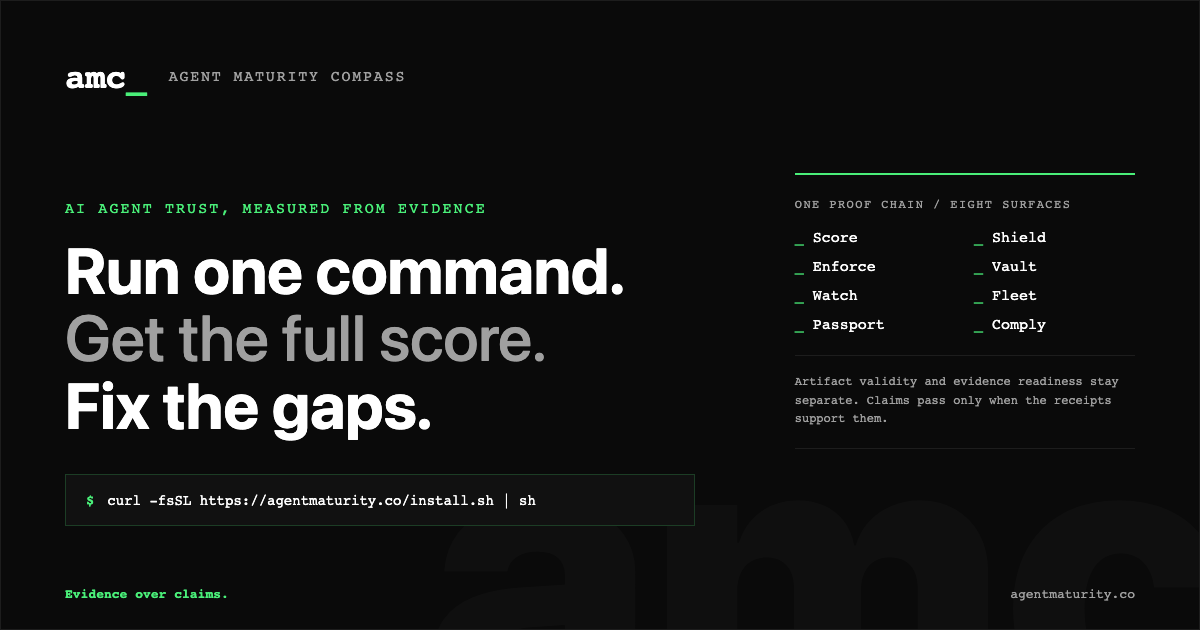
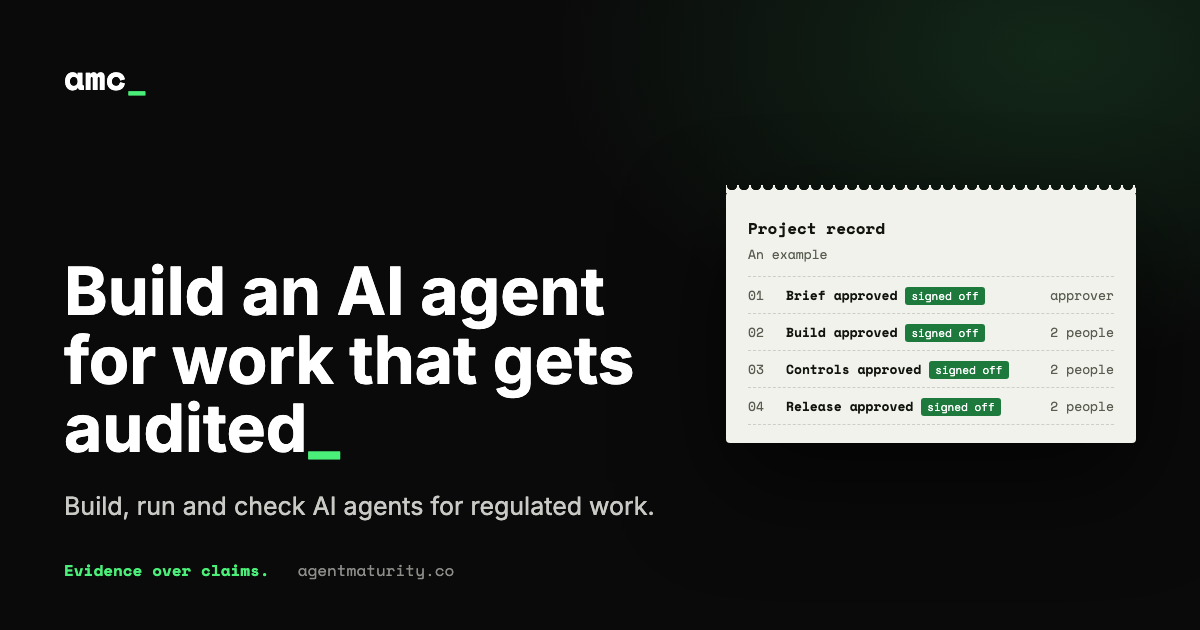
feat(brand): social card in the home design with the new promise
The card now says 'Build an AI agent for work that gets audited', the one-line description and
'Evidence over claims.', next to an example project record. Fonts load from the installed
@fontsource packages so npm run brand:render gives the same picture on every machine. The test
that pinned the retired promise on the card now pins the new one.

diff --git a/scripts/brand/og-card.html b/scripts/brand/og-card.html
@@ -3,165 +3,60 @@
 <head>
   <meta charset="UTF-8">
   <meta name="viewport" content="width=1200, initial-scale=1.0">
-  <meta name="description" content="Run one command. Get the full score. Fix the gaps. Evidence over claims.">
+  <meta name="description" content="Build an AI agent for work that gets audited. Build, run and check AI agents for regulated work. Evidence over claims.">
   <title>Agent Maturity Compass</title>
+  <!-- The social card (website/og-card.png, 1200x630), in the home page's design. Render it with `npm run brand:render`.
+       Fonts come from the installed @fontsource packages, so the picture is the same on every machine. -->
   <style>
-    * { box-sizing: border-box; }
-    html, body { width: 1200px; height: 630px; margin: 0; overflow: hidden; }
+    @font-face { font-family: "Inter"; src: url("../../node_modules/@fontsource/inter/files/inter-latin-400-normal.woff2") format("woff2"); font-weight: 400; }
+    @font-face { font-family: "Inter"; src: url("../../node_modules/@fontsource/inter/files/inter-latin-700-normal.woff2") format("woff2"); font-weight: 700; }
+    @font-face { font-family: "Space Mono"; src: url("../../node_modules/@fontsource/space-mono/files/space-mono-latin-400-normal.woff2") format("woff2"); font-weight: 400; }
+    @font-face { font-family: "Space Mono"; src: url("../../node_modules/@fontsource/space-mono/files/space-mono-latin-700-normal.woff2") format("woff2"); font-weight: 700; }
+    * { box-sizing: border-box; margin: 0; padding: 0; }
+    html, body { width: 1200px; height: 630px; overflow: hidden; }
     body {
-      background: #0a0a0a;
-      color: #FFFFFF;
-      font-family: 'Inter', system-ui, sans-serif;
+      background: #0a0a0a radial-gradient(60% 70% at 88% 8%, rgba(74, 239, 121, 0.13), transparent 70%);
+      color: #c9cac5;
+      font-family: "Inter", system-ui, sans-serif;
     }
-    .frame {
-      position: relative;
-      width: 100%;
-      height: 100%;
-      padding: 56px 64px 52px;
-      border: 1px solid rgba(255, 255, 255, 0.08);
-      overflow: hidden;
-    }
-    .watermark {
-      position: absolute;
-      right: -28px;
-      bottom: -132px;
-      color: rgba(255, 255, 255, 0.025);
-      font-size: 390px;
-      font-weight: 900;
-      line-height: 1;
-      letter-spacing: 0;
-    }
-    .topbar {
-      position: relative;
-      z-index: 1;
-      display: flex;
-      align-items: center;
-      gap: 22px;
-      font-family: 'Space Mono', ui-monospace, monospace;
-    }
-    .wordmark { font-size: 34px; font-weight: 700; }
-    .cursor { color: #4AEF79; }
-    .product-name {
-      color: #a0a0a0;
-      font-size: 15px;
-      text-transform: uppercase;
-      letter-spacing: 0.12em;
-    }
-    .content {
-      position: relative;
-      z-index: 1;
-      display: grid;
-      grid-template-columns: minmax(0, 1.45fr) minmax(330px, 0.75fr);
-      gap: 72px;
-      align-items: end;
-      height: 430px;
-    }
-    .eyebrow {
-      margin: 0 0 20px;
-      color: #4AEF79;
-      font-family: 'Space Mono', ui-monospace, monospace;
-      font-size: 15px;
-      text-transform: uppercase;
-      letter-spacing: 0.14em;
-    }
-    h1 {
-      margin: 0;
-      max-width: 650px;
-      font-size: 64px;
-      line-height: 1.06;
-      letter-spacing: 0;
-    }
-    h1 span { color: #a0a0a0; font-weight: 500; }
-    .command {
-      display: flex;
-      gap: 13px;
-      margin-top: 34px;
-      padding: 17px 20px;
-      max-width: 630px;
-      border: 1px solid rgba(74, 239, 121, 0.20);
-      background: #111111;
-      color: #FFFFFF;
-      font-family: 'Space Mono', ui-monospace, monospace;
-      font-size: 14px;
-      white-space: nowrap;
-    }
-    .command span { color: #4AEF79; font-weight: 700; }
-    .proof-panel {
-      align-self: center;
-      border-top: 2px solid #4AEF79;
-      border-bottom: 1px solid rgba(255, 255, 255, 0.08);
-      padding: 22px 0 20px;
-      font-family: 'Space Mono', ui-monospace, monospace;
-    }
-    .proof-label {
-      margin-bottom: 18px;
-      color: #a0a0a0;
-      font-size: 12px;
-      text-transform: uppercase;
-      letter-spacing: 0.12em;
-    }
-    .surface-grid {
-      display: grid;
-      grid-template-columns: 1fr 1fr;
-      gap: 12px 18px;
-      color: #FFFFFF;
-      font-size: 15px;
-    }
-    .surface-grid span::before { content: '_ '; color: #4AEF79; }
-    .proof-note {
-      margin-top: 22px;
-      padding-top: 16px;
-      border-top: 1px solid rgba(255, 255, 255, 0.08);
-      color: #a0a0a0;
-      font-size: 12px;
-      line-height: 1.55;
-    }
-    .footer {
-      position: absolute;
-      left: 64px;
-      right: 64px;
-      bottom: 28px;
-      z-index: 1;
-      display: flex;
-      justify-content: space-between;
-      color: #a0a0a0;
-      font-family: 'Space Mono', ui-monospace, monospace;
-      font-size: 13px;
-    }
-    .footer strong { color: #4AEF79; font-weight: 700; }
+    .frame { position: relative; height: 100%; padding: 52px 64px 48px; display: grid; grid-template-columns: minmax(0, 1fr) 410px; gap: 48px; }
+    .mono { font-family: "Space Mono", ui-monospace, monospace; }
+    .wordmark { font-size: 34px; font-weight: 700; color: #fff; }
+    .accent { color: #4AEF79; }
+    .copy { display: flex; flex-direction: column; }
+    h1 { margin-top: auto; font-size: 66px; line-height: 1.04; font-weight: 700; color: #fff; letter-spacing: 0; }
+    .line { margin-top: 26px; font-size: 25px; line-height: 1.4; max-width: 30em; }
+    .foot { margin-top: 34px; display: flex; gap: 28px; font-size: 16px; color: #8d8e89; }
+    .foot strong { color: #4AEF79; font-weight: 700; }
+    .sheet { align-self: center; position: relative; background: #f1f2ec; color: #12140e; border-radius: 4px; padding: 24px 22px 18px; box-shadow: 0 40px 100px rgba(0, 0, 0, 0.6); }
+    .sheet::before { content: ""; position: absolute; left: 0; right: 0; top: -7px; height: 8px; background: radial-gradient(circle at 6px 0, transparent 5px, #f1f2ec 5.5px) 0 0 / 12px 8px repeat-x; }
+    .sheet-title { font-weight: 700; font-size: 16px; }
+    .sheet-note { margin: 4px 0 12px; font-size: 13px; color: #595d50; }
+    ol { list-style: none; counter-reset: entry; border-top: 1px dashed rgba(18, 20, 14, 0.16); }
+    li { counter-increment: entry; display: grid; grid-template-columns: 30px minmax(0, 1fr) auto; gap: 8px; align-items: baseline; padding: 8px 0; border-bottom: 1px dashed rgba(18, 20, 14, 0.16); font-size: 13px; }
+    li::before { content: counter(entry, decimal-leading-zero); color: #595d50; }
+    li em { font-style: normal; color: #595d50; }
+    li b::after { content: "signed off"; margin-left: 8px; padding: 1px 6px; border-radius: 3px; background: #1d7a3c; color: #fff; font-weight: 400; font-size: 11px; white-space: nowrap; }
   </style>
 </head>
 <body>
   <div class="frame">
-    <div class="watermark" aria-hidden="true">amc</div>
-    <header class="topbar">
-      <div class="wordmark">amc<span class="cursor">_</span></div>
-      <div class="product-name">Agent Maturity Compass</div>
-    </header>
-
-    <main class="content">
-      <section>
-        <p class="eyebrow">AI agent trust, measured from evidence</p>
-        <h1>Run one command.<br><span>Get the full score.</span><br>Fix the gaps.</h1>
-        <div class="command"><span>$</span> curl -fsSL https://agentmaturity.co/install.sh | sh</div>
-      </section>
-
-      <aside class="proof-panel" aria-label="AMC trust stack">
-        <div class="proof-label">One proof chain / eight surfaces</div>
-        <div class="surface-grid">
-          <span>Score</span><span>Shield</span>
-          <span>Enforce</span><span>Vault</span>
-          <span>Watch</span><span>Fleet</span>
-          <span>Passport</span><span>Comply</span>
-        </div>
-        <div class="proof-note">Artifact validity and evidence readiness stay separate. Claims pass only when the receipts support them.</div>
-      </aside>
-    </main>
-
-    <footer class="footer">
-      <strong>Evidence over claims.</strong>
-      <span>agentmaturity.co</span>
-    </footer>
+    <section class="copy">
+      <div class="wordmark mono">amc<span class="accent">_</span></div>
+      <h1>Build an AI agent for work that gets audited<span class="accent">_</span></h1>
+      <p class="line">Build, run and check AI agents for regulated work.</p>
+      <p class="foot mono"><strong>Evidence over claims.</strong><span>agentmaturity.co</span></p>
+    </section>
+    <aside class="sheet mono" aria-label="An example project record">
+      <p class="sheet-title">Project record</p>
+      <p class="sheet-note">An example</p>
+      <ol>
+        <li><span><b>Brief approved</b></span><em>approver</em></li>
+        <li><span><b>Build approved</b></span><em>2 people</em></li>
+        <li><span><b>Controls approved</b></span><em>2 people</em></li>
+        <li><span><b>Release approved</b></span><em>2 people</em></li>
+      </ol>
+    </aside>
   </div>
 </body>
 </html>

diff --git a/tests/publicBrandSystem.test.ts b/tests/publicBrandSystem.test.ts
@@ -112,8 +112,9 @@ describe("AMC public brand system", () => {
     expect(existsSync(resolve(process.cwd(), "scripts/render-brand-assets.mjs"))).toBe(true);
     const source = read("scripts/brand/og-card.html");
     expect(source).toContain("Agent Maturity Compass");
-    expect(source).toContain("Run one command.");
-    expect(source).toContain("Get the full score. Fix the gaps.");
+    expect(source).toContain("Build an AI agent for work that gets audited");
+    expect(source).toContain("Build, run and check AI agents for regulated work.");
+    expect(source).not.toContain("Run one command");
     expect(source).toContain("Evidence over claims.");
     expect(source).toContain("#4AEF79");
     expect(source).not.toMatch(/235|5,031|🧭/u);
